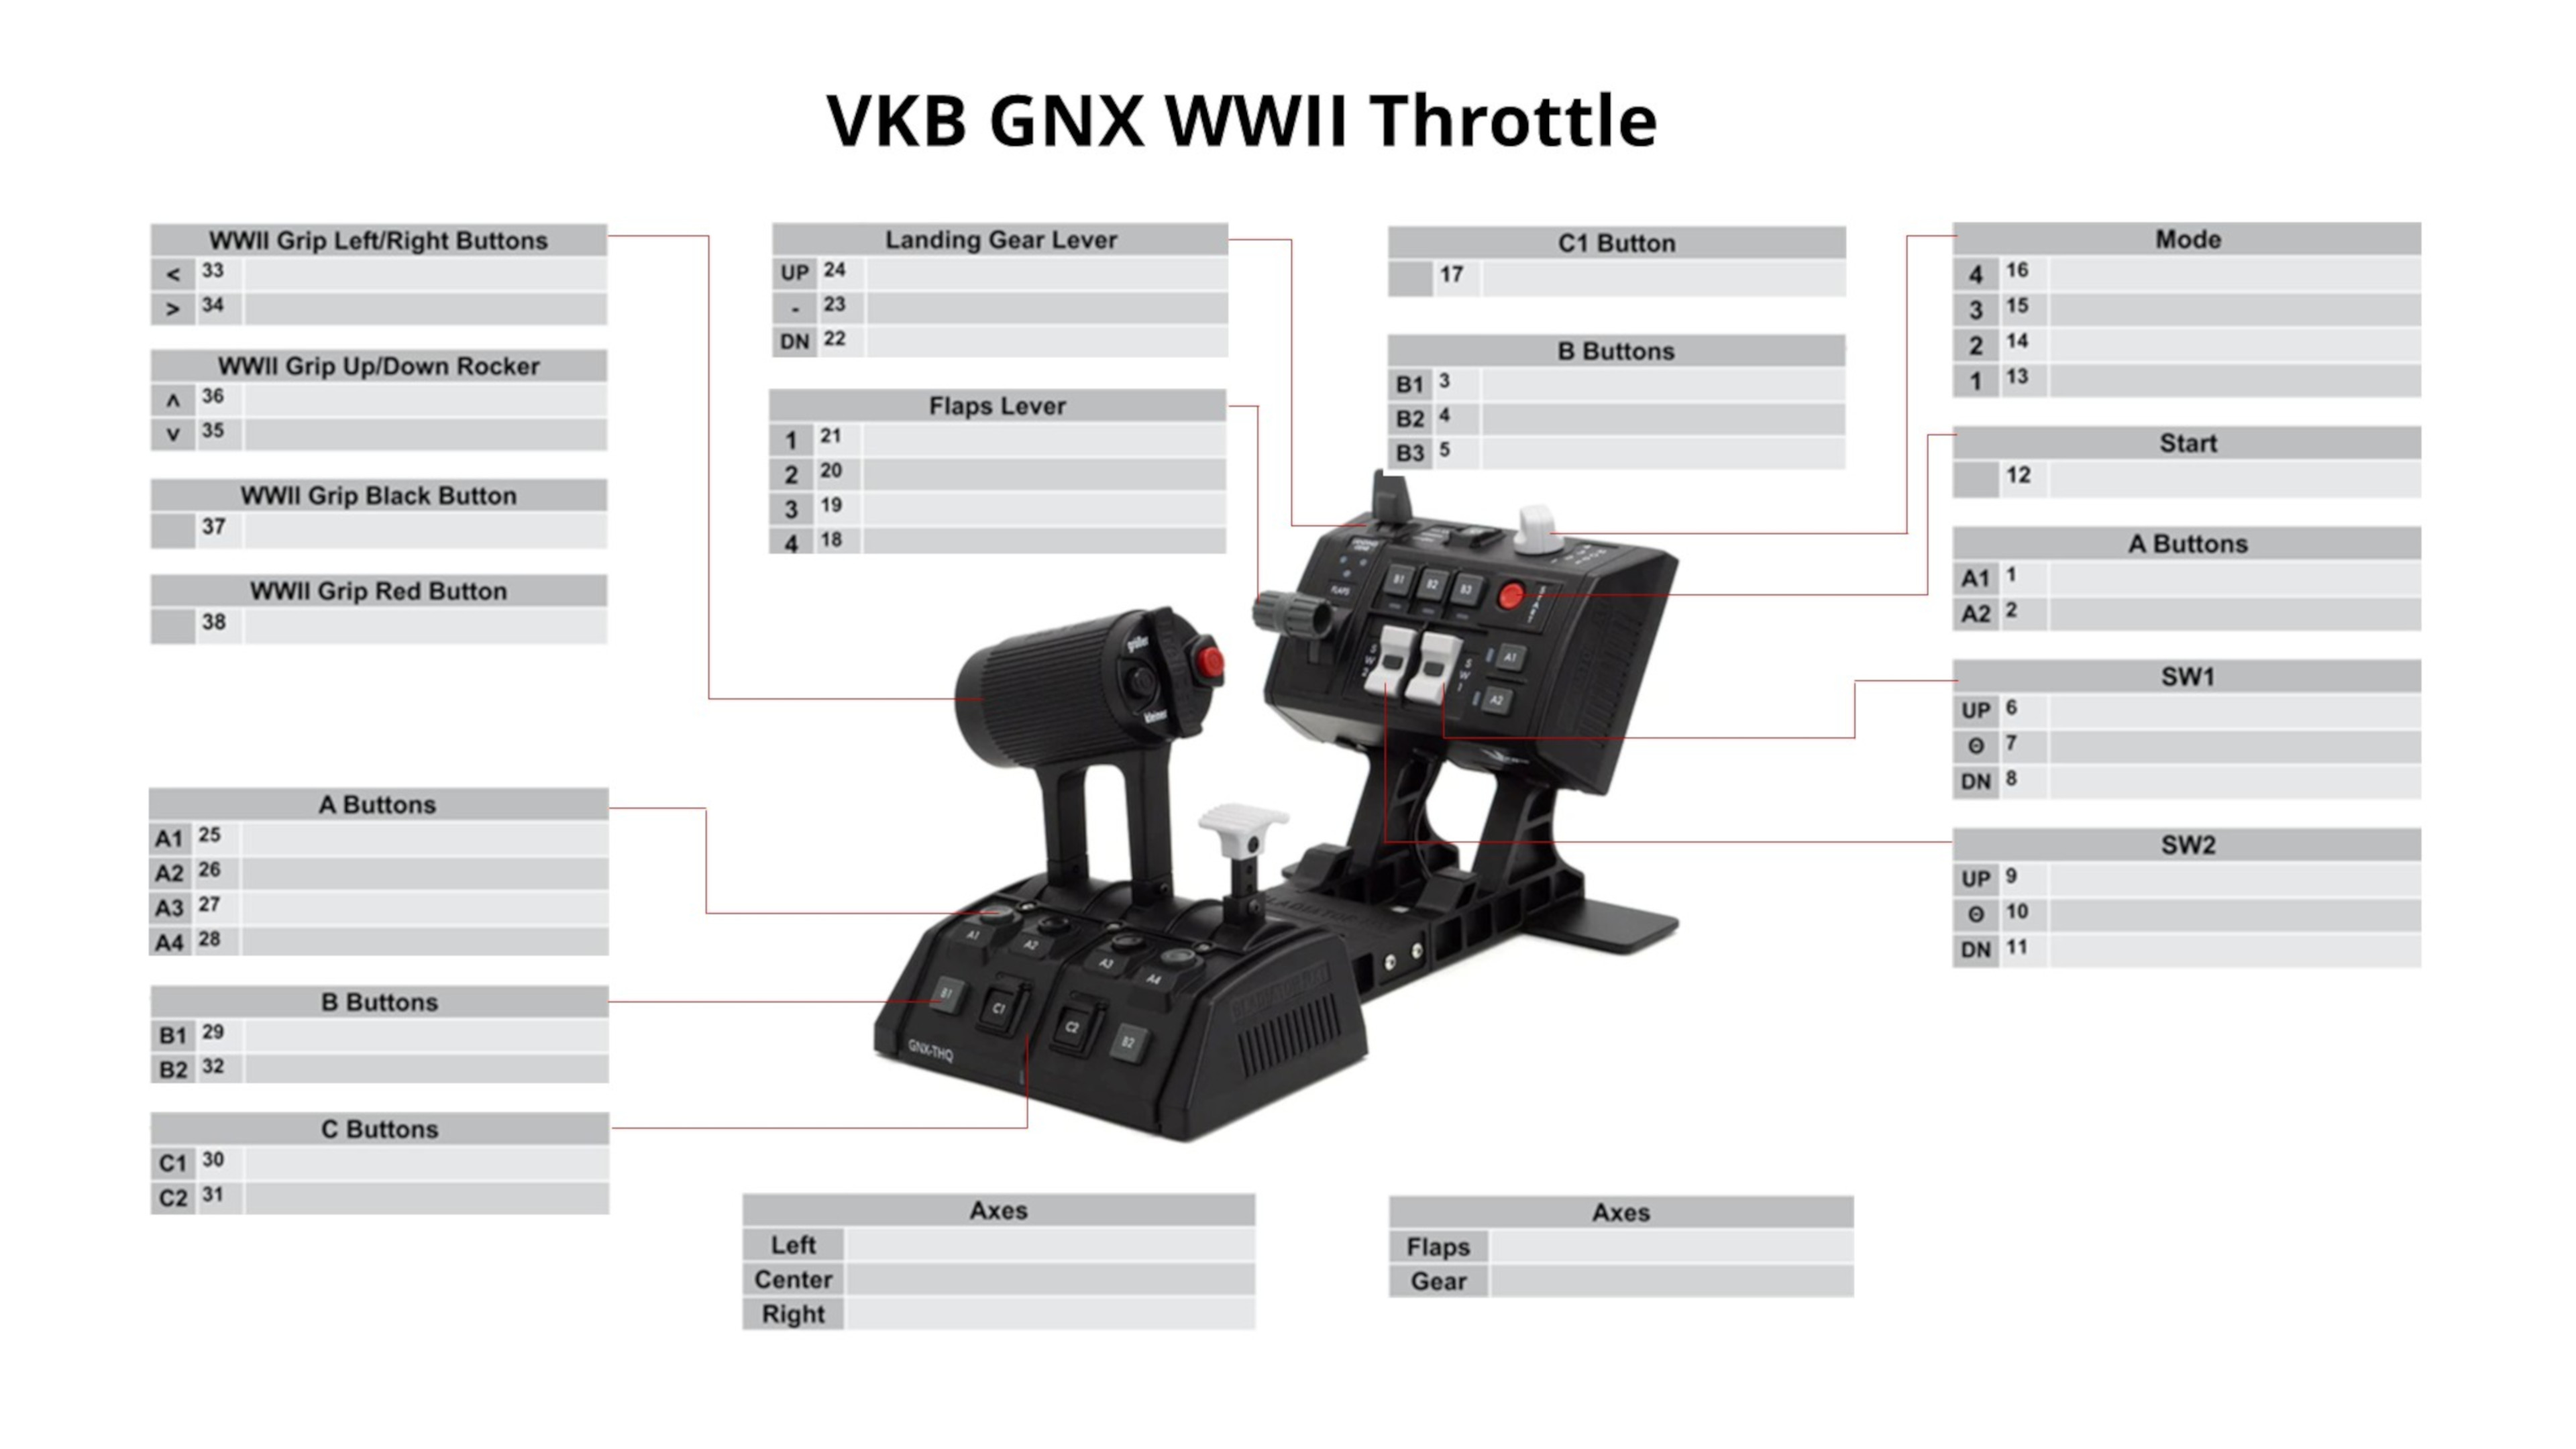
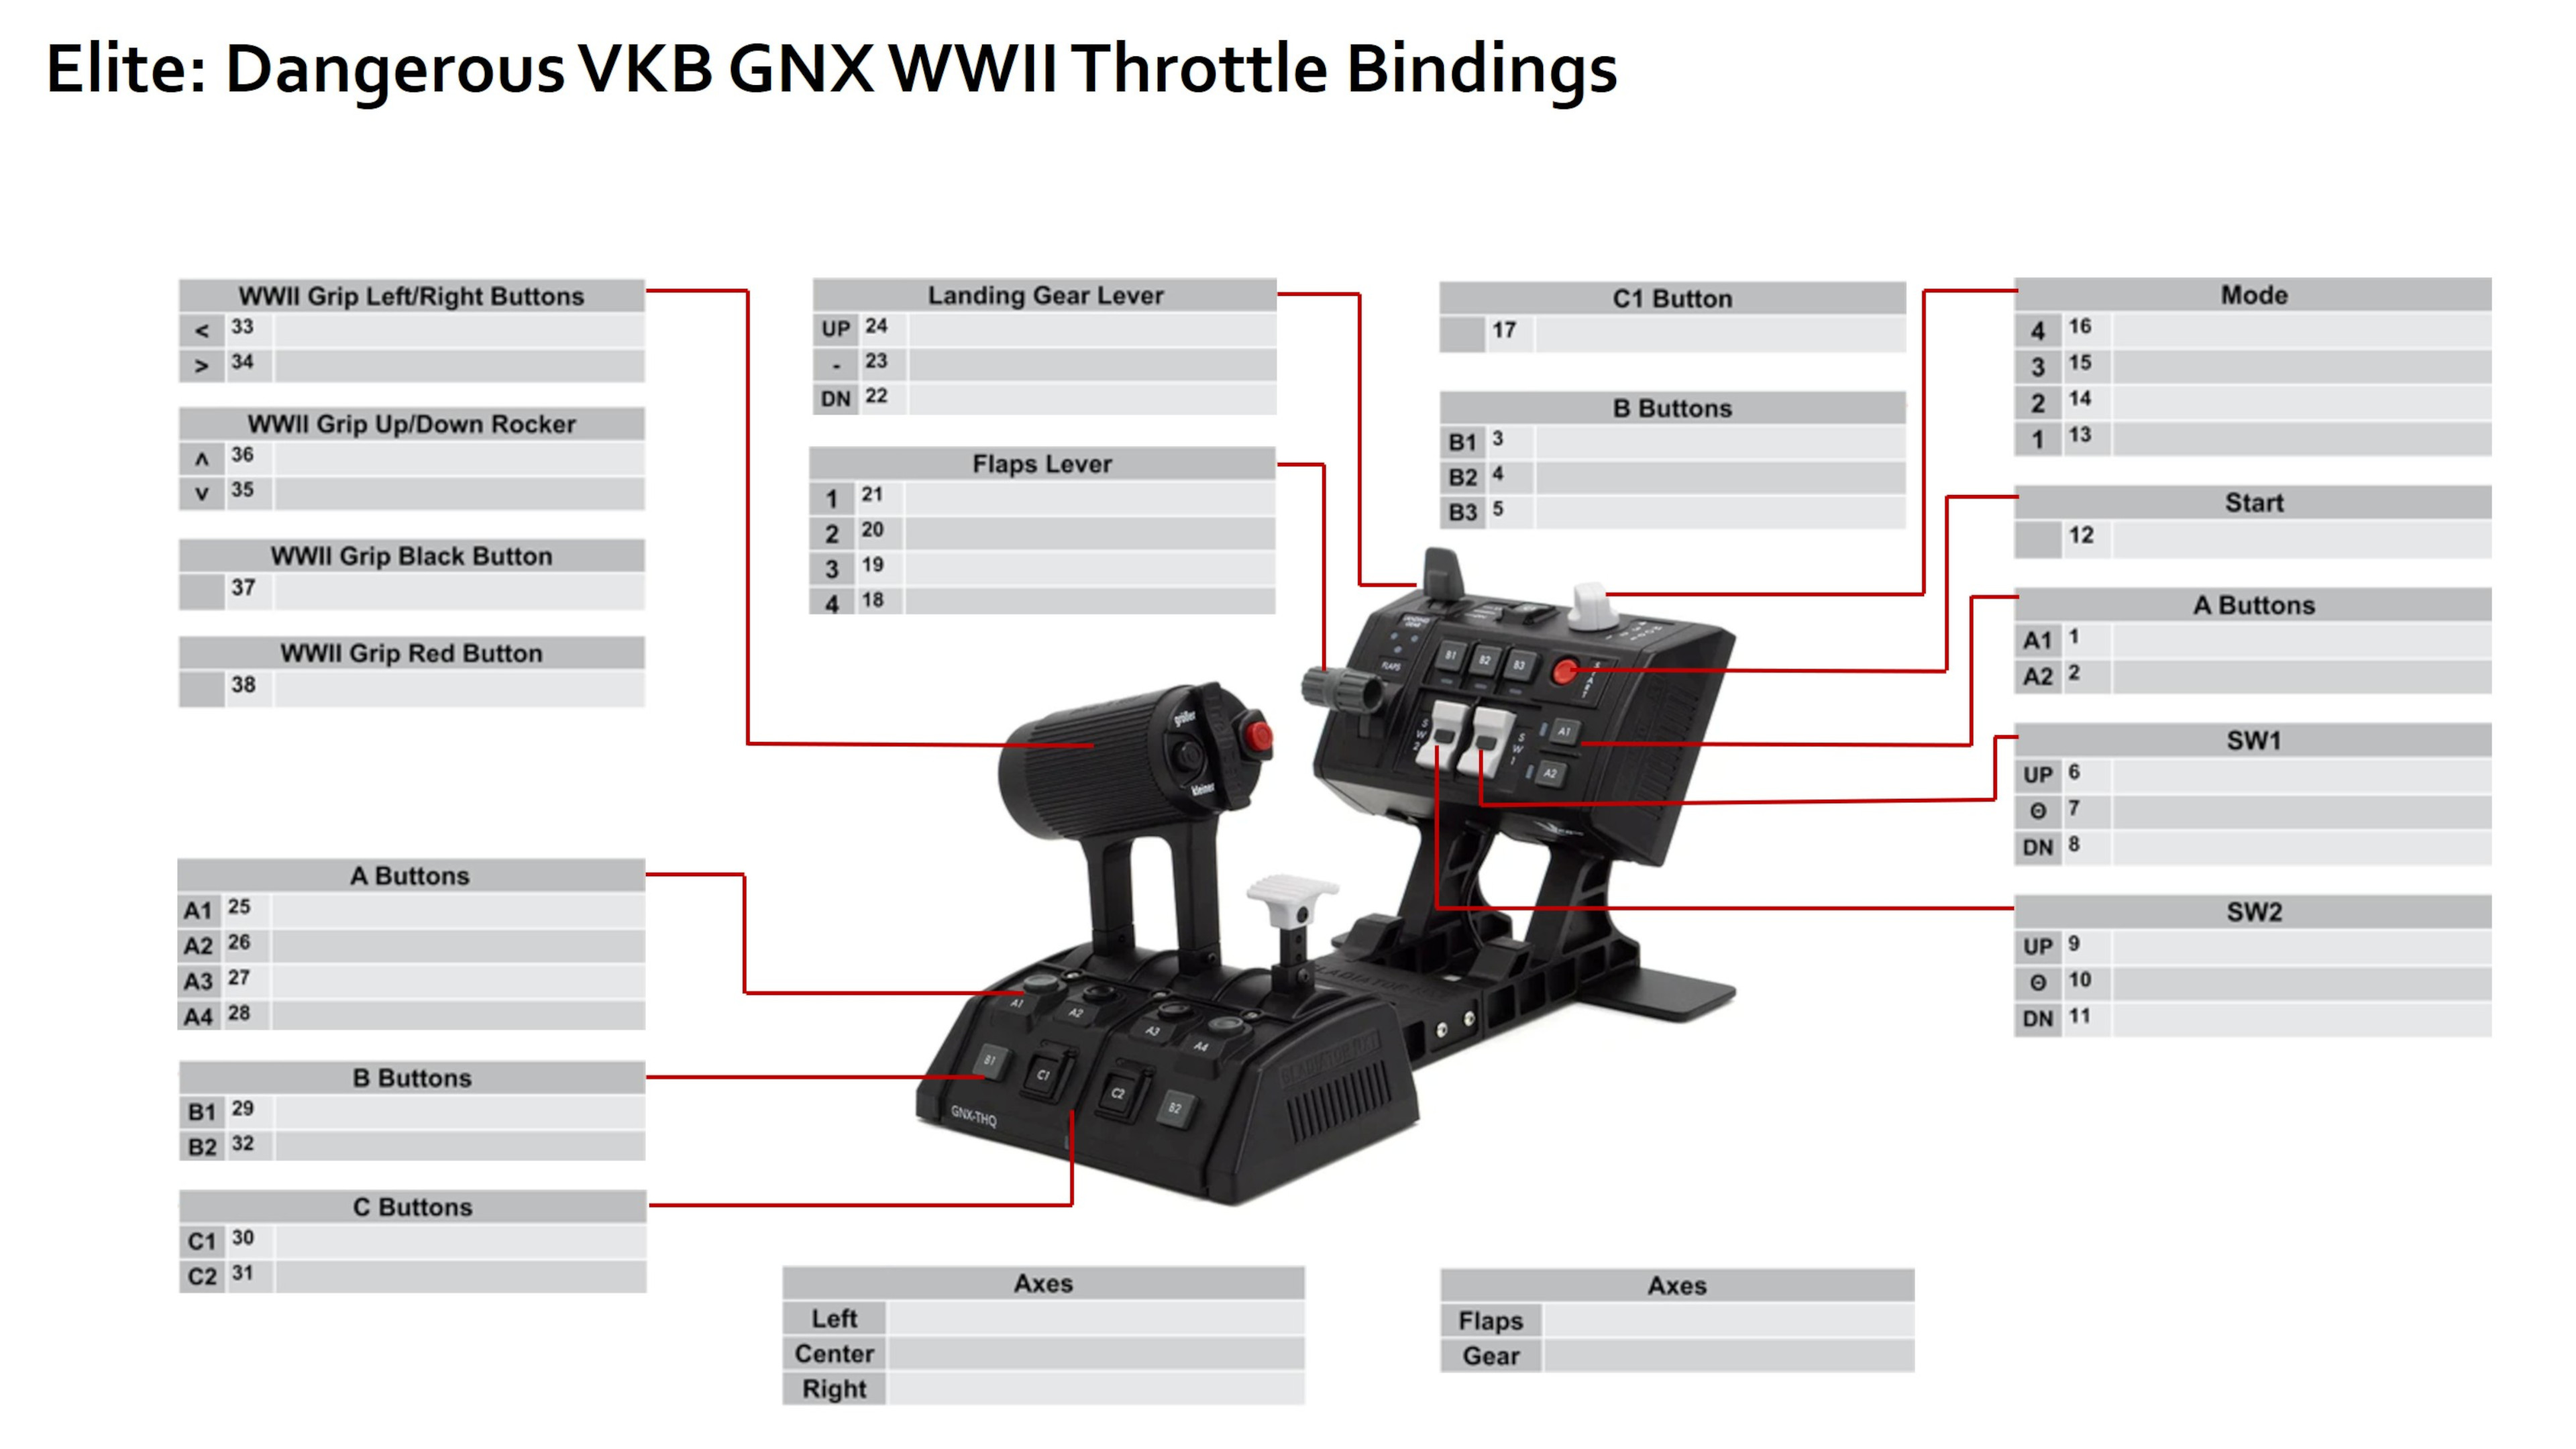
Rescale image and update coordinates

diff --git a/www/scripts/bindingsData.py b/www/scripts/bindingsData.py
@@ -3876,48 +3876,48 @@ hotasDetails = {
     },
     '231D2214': { # VKB GNX WWII Throttle 
         'displayName': 'VKB GNX WWII Throttle',
-        'Joy_1': {'Type': 'Digital', 'x': 3058, 'y': 840, 'width': 536, 'height': 46}, # A1
-        'Joy_2': {'Type': 'Digital', 'x': 3058, 'y': 892, 'width': 536, 'height': 46}, # A2
-        'Joy_3': {'Type': 'Digital', 'x': 2212, 'y': 550, 'width': 536, 'height': 46}, # B1
-        'Joy_4': {'Type': 'Digital', 'x': 2212, 'y': 602, 'width': 536, 'height': 46}, # B2
-        'Joy_5': {'Type': 'Digital', 'x': 2212, 'y': 654, 'width': 536, 'height': 46}, # B3
-        'Joy_6': {'Type': 'Digital', 'x': 3058, 'y': 1042, 'width': 536, 'height': 46}, # White Right Rocker Up
-        'Joy_7': {'Type': 'Digital', 'x': 3058, 'y': 1092, 'width': 536, 'height': 46}, # White Right Rocker Middle
-        'Joy_8': {'Type': 'Digital', 'x': 3058, 'y': 1146, 'width': 536, 'height': 46}, # White Right Rocker Down
-        'Joy_9': {'Type': 'Digital', 'x': 3058, 'y': 1290, 'width': 536, 'height': 46}, # White Left Rocker Up
-        'Joy_10': {'Type': 'Digital', 'x': 3058, 'y': 1342, 'width': 536, 'height': 46}, # White Left Rocker Middle
-        'Joy_11': {'Type': 'Digital', 'x': 3058, 'y': 1396, 'width': 536, 'height': 46}, # White Left Rocker Down
-        'Joy_12': {'Type': 'Digital', 'x': 3058, 'y': 690, 'width': 536, 'height': 46}, # Red Start
-        'Joy_13': {'Type': 'Digital', 'x': 3058, 'y': 544, 'width': 536, 'height': 46}, # Mode 1
-        'Joy_14': {'Type': 'Digital', 'x': 3058, 'y': 492, 'width': 536, 'height': 46}, # Mode 2
-        'Joy_15': {'Type': 'Digital', 'x': 3058, 'y': 438, 'width': 536, 'height': 46}, # Mode 3
-        'Joy_16': {'Type': 'Digital', 'x': 3058, 'y': 386, 'width': 536, 'height': 46}, # Mode 4
-        'Joy_17': {'Type': 'Digital', 'x': 2212, 'y': 392, 'width': 536, 'height': 46}, # C1
-        'Joy_18': {'Type': 'Digital', 'x': 1288, 'y': 788, 'width': 536, 'height': 46}, # Flaps 1
-        'Joy_19': {'Type': 'Digital', 'x': 1288, 'y': 736, 'width': 536, 'height': 46}, # Flaps 2
-        'Joy_20': {'Type': 'Digital', 'x': 1288, 'y': 684, 'width': 536, 'height': 46}, # Flaps 3
-        'Joy_21': {'Type': 'Digital', 'x': 1288, 'y': 634, 'width': 536, 'height': 46}, # Flaps 4
-        'Joy_22': {'Type': 'Digital', 'x': 1288, 'y': 486, 'width': 536, 'height': 46}, # Landing Gear Down
-        'Joy_23': {'Type': 'Digital', 'x': 1288, 'y': 436, 'width': 536, 'height': 46}, # Landing Gear Middle
-        'Joy_24': {'Type': 'Digital', 'x': 1288, 'y': 386, 'width': 536, 'height': 46}, # Landing Gear Up
-        'Joy_25': {'Type': 'Digital', 'x': 362, 'y': 1230, 'width': 536, 'height': 46}, # A1 (THQ)
-        'Joy_26': {'Type': 'Digital', 'x': 362, 'y': 1280, 'width': 536, 'height': 46}, # A2
-        'Joy_27': {'Type': 'Digital', 'x': 362, 'y': 1332, 'width': 536, 'height': 46}, # A3
-        'Joy_28': {'Type': 'Digital', 'x': 362, 'y': 1384, 'width': 536, 'height': 46}, # A4
-        'Joy_29': {'Type': 'Digital', 'x': 362, 'y': 1522, 'width': 536, 'height': 46}, # B1
-        'Joy_30': {'Type': 'Digital', 'x': 362, 'y': 1712, 'width': 536, 'height': 46}, # C1
-        'Joy_31': {'Type': 'Digital', 'x': 362, 'y': 1764, 'width': 536, 'height': 46}, # C2
-        'Joy_32': {'Type': 'Digital', 'x': 362, 'y': 1572, 'width': 536, 'height': 46}, # B2
-        'Joy_33': {'Type': 'Digital', 'x': 362, 'y': 386, 'width': 536, 'height': 46}, # <
-        'Joy_34': {'Type': 'Digital', 'x': 362, 'y': 438, 'width': 536, 'height': 46}, # >
-        'Joy_35': {'Type': 'Digital', 'x': 362, 'y': 626, 'width': 536, 'height': 46}, # V
-        'Joy_36': {'Type': 'Digital', 'x': 362, 'y': 574, 'width': 536, 'height': 46}, # ^
-        'Joy_37': {'Type': 'Digital', 'x': 362, 'y': 768, 'width': 536, 'height': 46}, # Black
-        'Joy_38': {'Type': 'Digital', 'x': 362, 'y': 910, 'width': 536, 'height': 46}, # Red
+        'Joy_1': {'Type': 'Digital', 'x': 3152, 'y': 932, 'width': 548, 'height': 44}, # A1
+        'Joy_2': {'Type': 'Digital', 'x': 3152, 'y': 986, 'width': 548, 'height': 44}, # A2
+        'Joy_3': {'Type': 'Digital', 'x': 2292, 'y': 638, 'width': 548, 'height': 44}, # B1
+        'Joy_4': {'Type': 'Digital', 'x': 2292, 'y': 692, 'width': 548, 'height': 44}, # B2
+        'Joy_5': {'Type': 'Digital', 'x': 2292, 'y': 742, 'width': 548, 'height': 44}, # B3
+        'Joy_6': {'Type': 'Digital', 'x': 3152, 'y': 1134, 'width': 548, 'height': 44}, # White Right Rocker Up
+        'Joy_7': {'Type': 'Digital', 'x': 3152, 'y': 1186, 'width': 548, 'height': 44}, # White Right Rocker Middle
+        'Joy_8': {'Type': 'Digital', 'x': 3152, 'y': 1240, 'width': 548, 'height': 44}, # White Right Rocker Down
+        'Joy_9': {'Type': 'Digital', 'x': 3152, 'y': 1388, 'width': 548, 'height': 44}, # White Left Rocker Up
+        'Joy_10': {'Type': 'Digital', 'x': 3152, 'y': 1442, 'width': 548, 'height': 44}, # White Left Rocker Middle
+        'Joy_11': {'Type': 'Digital', 'x': 3152, 'y': 1496, 'width': 548, 'height': 44}, # White Left Rocker Down
+        'Joy_12': {'Type': 'Digital', 'x': 3152, 'y': 778, 'width': 548, 'height': 44}, # Red Start
+        'Joy_13': {'Type': 'Digital', 'x': 3152, 'y': 630, 'width': 548, 'height': 44}, # Mode 1
+        'Joy_14': {'Type': 'Digital', 'x': 3152, 'y': 576, 'width': 548, 'height': 44}, # Mode 2
+        'Joy_15': {'Type': 'Digital', 'x': 3152, 'y': 522, 'width': 548, 'height': 44}, # Mode 3
+        'Joy_16': {'Type': 'Digital', 'x': 3152, 'y': 470, 'width': 548, 'height': 44}, # Mode 4
+        'Joy_17': {'Type': 'Digital', 'x': 2292, 'y': 472, 'width': 548, 'height': 44}, # C1
+        'Joy_18': {'Type': 'Digital', 'x': 1350, 'y': 878, 'width': 548, 'height': 44}, # Flaps 1
+        'Joy_19': {'Type': 'Digital', 'x': 1350, 'y': 824, 'width': 548, 'height': 44}, # Flaps 2
+        'Joy_20': {'Type': 'Digital', 'x': 1350, 'y': 772, 'width': 548, 'height': 44}, # Flaps 3
+        'Joy_21': {'Type': 'Digital', 'x': 1350, 'y': 720, 'width': 548, 'height': 44}, # Flaps 4
+        'Joy_22': {'Type': 'Digital', 'x': 1350, 'y': 572, 'width': 548, 'height': 44}, # Landing Gear Down
+        'Joy_23': {'Type': 'Digital', 'x': 1350, 'y': 520, 'width': 548, 'height': 44}, # Landing Gear Middle
+        'Joy_24': {'Type': 'Digital', 'x': 1350, 'y': 468, 'width': 548, 'height': 44}, # Landing Gear Up
+        'Joy_25': {'Type': 'Digital', 'x': 412, 'y': 1336, 'width': 548, 'height': 44}, # A1 (THQ)
+        'Joy_26': {'Type': 'Digital', 'x': 412, 'y': 1388, 'width': 548, 'height': 44}, # A2
+        'Joy_27': {'Type': 'Digital', 'x': 412, 'y': 1440, 'width': 548, 'height': 44}, # A3
+        'Joy_28': {'Type': 'Digital', 'x': 412, 'y': 1492, 'width': 548, 'height': 44}, # A4
+        'Joy_29': {'Type': 'Digital', 'x': 412, 'y': 1636, 'width': 548, 'height': 44}, # B1
+        'Joy_30': {'Type': 'Digital', 'x': 412, 'y': 1828, 'width': 548, 'height': 44}, # C1
+        'Joy_31': {'Type': 'Digital', 'x': 412, 'y': 1880, 'width': 548, 'height': 44}, # C2
+        'Joy_32': {'Type': 'Digital', 'x': 412, 'y': 1686, 'width': 548, 'height': 44}, # B2
+        'Joy_33': {'Type': 'Digital', 'x': 412, 'y': 472, 'width': 548, 'height': 44}, # <
+        'Joy_34': {'Type': 'Digital', 'x': 412, 'y': 522, 'width': 548, 'height': 44}, # >
+        'Joy_35': {'Type': 'Digital', 'x': 412, 'y': 712, 'width': 548, 'height': 44}, # V
+        'Joy_36': {'Type': 'Digital', 'x': 412, 'y': 662, 'width': 548, 'height': 44}, # ^
+        'Joy_37': {'Type': 'Digital', 'x': 412, 'y': 856, 'width': 548, 'height': 44}, # Black
+        'Joy_38': {'Type': 'Digital', 'x': 412, 'y': 1002, 'width': 548, 'height': 44}, # Red
 
-        'Joy_XAxis': {'Type': 'Analogue', 'x': 1258, 'y': 1834, 'width': 536, 'height': 46},
-        'Joy_ZAxis': {'Type': 'Analogue', 'x': 1258, 'y': 1884, 'width': 536, 'height': 46}, # Not used for THQ-WW2
-        'Joy_YAxis': {'Type': 'Analogue', 'x': 1258, 'y': 1936, 'width': 536, 'height': 46},
+        'Joy_XAxis': {'Type': 'Analogue', 'x': 1328, 'y': 1942, 'width': 548, 'height': 44},
+        'Joy_ZAxis': {'Type': 'Analogue', 'x': 1328, 'y': 1994, 'width': 548, 'height': 44}, # Not used for THQ-WW2
+        'Joy_YAxis': {'Type': 'Analogue', 'x': 1328, 'y': 2046, 'width': 548, 'height': 44},
     },
     
     '4098BE62': { # Winwing Orion Throttle Base II + F18 Handle
